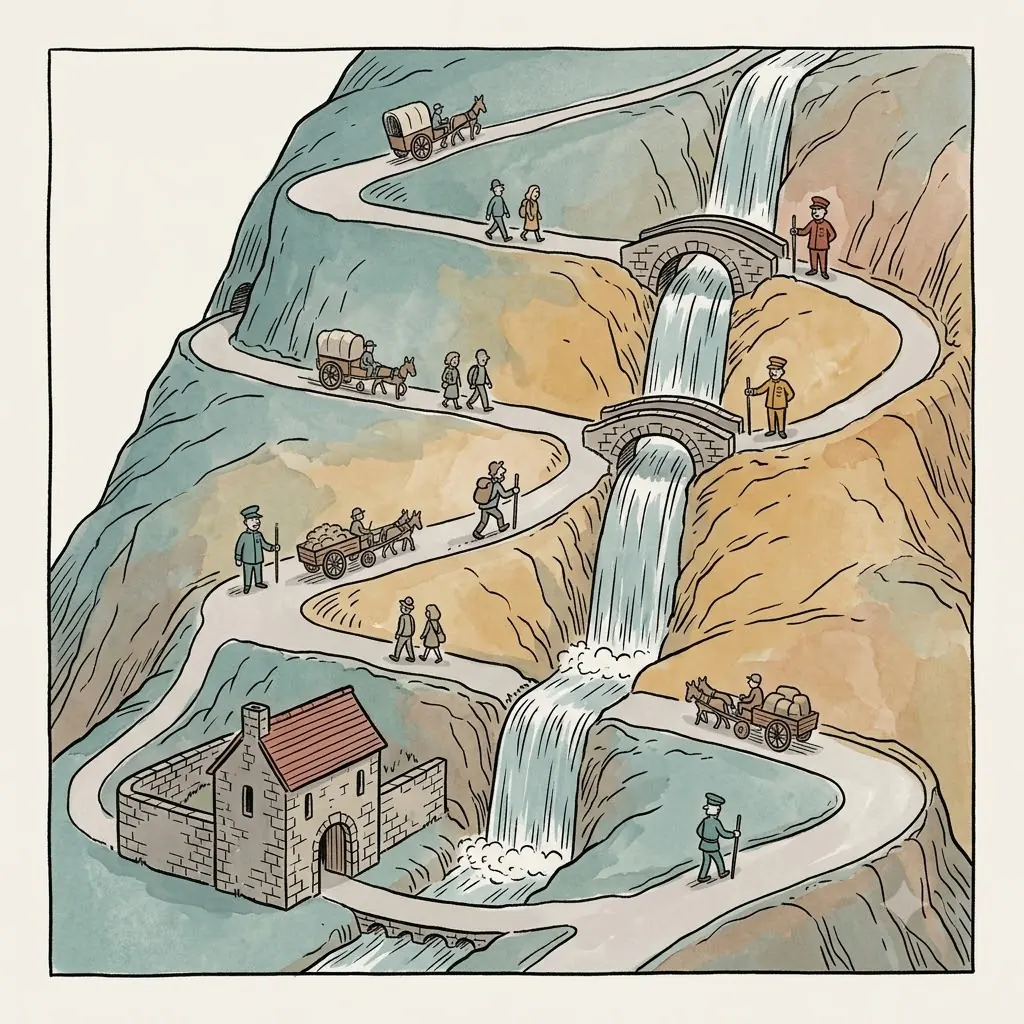
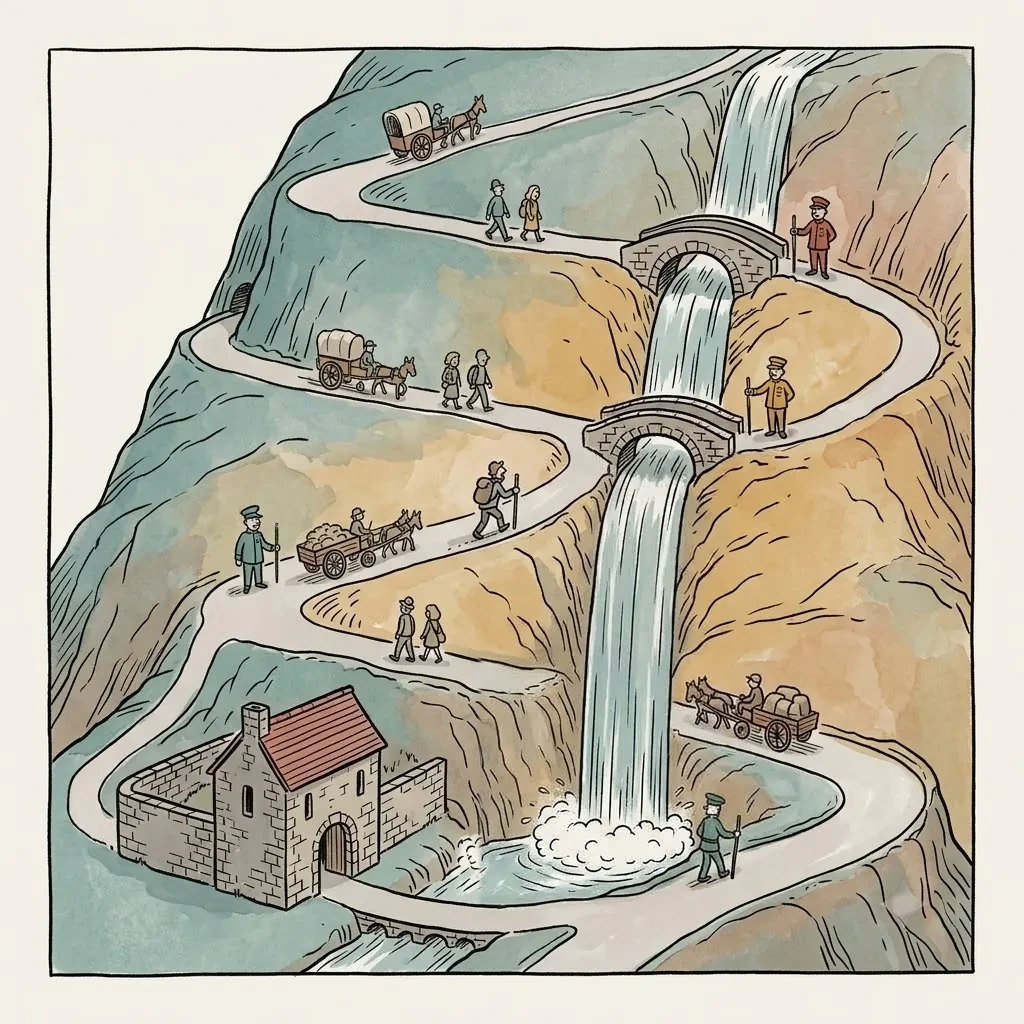
개념 논리 m — s33p01 당신생 산길: 물줄기가 네 번 떨어지던 것(둘째 다리 아래가 가운데 턱에서 한 번 더 꺾여 피루브산 키네이스 한 단계가 둘로 읽힘) → 둘째 다리 아래를 한 번에 떨어지는 긴 폭포로 — 폭포 셋 = 비가역 3단계(4행 「가로막는 폭포가 딱 셋」과 맞음) 제미나이 v1 의 폭포 자리만 옮기고 바위 위 옛 반짝이 흐리게(tools/retouch/s33p01_one_fall.py)
Claude-Session: https://claude.ai/code/session_01WoYBm6rvmofApXiAiUhif2

Changed region(s): [[0.4688, 0.4062, 0.7812, 0.9062], [0.4688, 0.4375, 0.5, 0.5312]]

diff --git a/tools/retouch/s33p01_one_fall.py b/tools/retouch/s33p01_one_fall.py
@@ -1,0 +1,44 @@
+#!/usr/bin/env python3
+"""s33p01 — 개념 논리 m 4: 물줄기가 네 번 떨어지던 것(둘째 다리 아래가 가운데 턱에서 한 번 더 꺾임) → 비가역 3단계대로 **폭포 셋**
+(맨 위 → 첫 다리 · 첫 다리 → 둘째 다리 · 둘째 다리 → 맨 아래 웅덩이 한 번에).
+제미나이 v1 에서 둘째 다리 아래 폭포 자리만(x 480..800 · y 400..920 안, σ2 밝기 차 > 12 → 닫기 3 · 메움 · 넓힘 5 · σ2 섞음) 원본에 옮기고,
+오른쪽 아래 바위 위의 옛 흐린 반짝이 표식(원본부터 있던 것, 중심 ≈ (905,905))은 바위 결의 검은 선을 두고 「둘레보다 밝은」 화소만 둘레 밝기로 낮춘다.
+사용: python3 s33p01_one_fall.py ORIG.png V1.png OUT.png"""
+import sys
+import numpy as np
+from PIL import Image
+from scipy import ndimage as ndi
+op, vp, dst = sys.argv[1], sys.argv[2], sys.argv[3]
+O = np.asarray(Image.open(op).convert('RGB')).astype(np.float64)
+V = np.asarray(Image.open(vp).convert('RGB')).astype(np.float64)
+H, W = O.shape[:2]
+d = ndi.gaussian_filter(np.abs(O - V).mean(axis=2), 2.0)
+b = np.zeros((H, W), bool); b[400:920, 480:800] = True
+m = (d > 12) & b
+m = ndi.binary_closing(m, iterations=3)
+m = ndi.binary_fill_holes(m)
+m = ndi.binary_dilation(m, iterations=5) & b
+w = ndi.gaussian_filter(m.astype(float), 2.0)
+out = O * (1 - w[..., None]) + V * w[..., None]
+print('paste px', int(m.sum()))
+# 옛 반짝이
+X0, X1, Y0, Y1 = 872, 940, 866, 940
+sub = out[Y0:Y1, X0:X1]
+L = sub.mean(axis=2)
+dark = ndi.binary_dilation(L < 110, iterations=1)
+Lm = np.where(dark, np.nan, L)
+pad = np.pad(Lm, 12, mode='reflect')
+from numpy.lib.stride_tricks import sliding_window_view
+win = sliding_window_view(pad, (25, 25))
+bgL = np.nanpercentile(win.reshape(win.shape[0], win.shape[1], -1), 35, axis=2)
+yy, xx = np.mgrid[0:sub.shape[0], 0:sub.shape[1]]
+cx, cy = 905 - X0, 905 - Y0
+disc = np.hypot(xx - cx, yy - cy) <= 30
+bright = (L > bgL + 5) & ~dark & disc
+bright = ndi.binary_dilation(ndi.binary_opening(bright, iterations=1), iterations=1) & ~dark
+f = np.where(bright, bgL / np.maximum(L, 1), 1.0)
+f = ndi.gaussian_filter(f, 1.0)
+out[Y0:Y1, X0:X1] = sub * f[..., None]
+print('old sparkle px', int(bright.sum()))
+Image.fromarray(np.clip(out, 0, 255).astype(np.uint8)).save(dst)
+print('saved', dst)

diff --git a/tools/retouch/README.md b/tools/retouch/README.md
@@ -63,3 +63,4 @@
 | s16p01 | `s16p01_cabinet_spark.py` — 개념 논리 M(창구 세 개: 벽의 안팎이 없던 것)은 제미나이 v1 한 번(보는 방 = 세포 안 · 손님은 창밖 · 문으로 들어와 캐비닛)으로 고치고, 캐비닛 왼쪽 아래 모서리에 겹친 **옛 반짝이 표식**만 손으로: 곧은 선뿐인 캐비닛이라 둘레 면 색(옆판·서랍 앞·받침·바닥)을 재어 평면으로 칠하고 끊긴 선 넷(바깥 왼쪽 x≈897 · 안쪽 x≈906 · 서랍 밑선 y≈910 · 캐비닛 밑선 기울기 0.14)을 이어 그린 뒤 **국소 밝기 차 > 12 인 곳만** 바꿈. |
 | s11p01 | `s11p01_okazaki_planks.py` — 개념 논리 M(R9 · 두 번 실패): 지연가닥 짧은 판자가 띠를 가로질러 침목처럼 → ① 제미나이 **지우기만**(판자·못 · 인부 빈손 · 용접공·불꽃 그대로) 결과에서 원본과 다른 곳만(왼쪽 아래 · σ2 차 > 14 · 닫기 3 · 메움 · 넓힘 5) 옮기고 ② 판자는 손으로 — 원본 위 갈래 긴 판자(중심 (381.6,316.9) · 32.19°)를 cv2.remap 으로 펴서 짧은 판자 스프라이트(곧은 몸 + 끝 32→18px · 폭 0.8 · 뭉툭한 끝 윤곽 3px)를 만들고 아래 갈래 축 (−0.707,0.707)으로 warpAffine(두께 면이 보는 쪽) · 못은 곧게 그림 · 불꽃은 판자 위에 다시 얹음 · 오른쪽 아래 반짝이는 **밝기 문턱(둘레 + 3)** 으로도 잡아 Telea(별 속이 넓고 평평해 국소 대비만으로는 안 잡힘). ⚠ 제미나이에게 안내 칠로 판자를 그리게 하면 뾰족한 끝을 빼고 분기점까지 다시 그렸다 — **지우기는 제미나이, 같은 물건 되풀이는 손** 이 낫다. |
 | s23p02 | `s23p02_salt_paste.py` — 개념 논리 m: 니코틴 문 회색 알갱이(= 자갈 Ca²⁺ 예약) → 흰 소금 결정(Na⁺) · M3 손가락 넷 → 셋 — 제미나이 v1 의 세 곳만(σ2 차 > 12) 옮기고, 소금 곁에 더 그린 **네 꼭지 반짝임 다섯**은 둥근 창 안 「바탕보다 어두운」 화소(굵은 윤곽 곁 제외)를 Telea 로 · 물방울 뒤의 옛 흐린 반짝이는 「바탕보다 밝은」 화소를 바탕색으로(물방울 윤곽 L < 185 + 안 보호). |
+| s33p01 | `s33p01_one_fall.py` — 개념 논리 m 4: 물줄기가 네 번 떨어지던 것 → 비가역 셋대로 폭포 셋(둘째 다리 아래를 한 번에) — 제미나이 v1 의 폭포 자리만(x 480..800 · y 400..920 · σ2 차 > 12) 옮기고, 바위 위 옛 반짝이는 검은 결 선을 두고 「둘레(25px 창 35 백분위)보다 5 넘게 밝은」 화소만 둘레 밝기로 낮춤. |

diff --git a/tools/prompts/s33p01_폭포셋_v1.md b/tools/prompts/s33p01_폭포셋_v1.md
@@ -1,0 +1,6 @@
+# s33p01 — 폭포를 셋으로 · v1
+
+logic_0929 m 4: 물줄기가 **네 번** 떨어진다(맨 위 → 첫 다리 · 첫 다리 → 둘째 다리 · 둘째 다리 → 가운데 웅덩이 · 가운데 웅덩이 → 맨 아래 웅덩이) — 4행은 「가로막는 폭포가 딱 셋」(비가역 3단계: 헥소키네이스 · PFK-1 · 피루브산 키네이스). 아래 두 번(둘째 다리 아래)이 한 단계(피루브산 키네이스 → 우회는 담장 안 건물)를 둘로 쪼갠다.
+→ 둘째 다리 아래를 **한 번에 떨어지는 긴 폭포 하나**로 — 가운데 턱·물보라 없앰.
+
+Edit the attached illustration. Keep everything exactly as it is — the winding road, all the travellers, carts and uniformed toll-keepers, the two stone arch bridges, the walled stone building at the bottom left, the colors and the style — and change only the waterfall BELOW the second stone bridge: right now it falls, splashes onto a ledge halfway down, and then falls a second time. Make it ONE single, long, unbroken waterfall that drops straight from under the second bridge all the way down to the pool at the bottom, with the white splash only at the bottom. Remove the ledge and the splash halfway down; the rock face behind the fall continues there. The roads that come to the waterfall from the left and from the right at that middle height stop at the edge of the falling water. No text.

diff --git a/tools/vision/logic_0929.md b/tools/vision/logic_0929.md
@@ -205,5 +205,5 @@
 | s31p03 | 5 | 빈 네모 양동이(FAD) | 양동이 = NADH 전용 | m | 그림 | |
 | s31p04 | 1·2 | 가득 찬 양동이가 **판자로 막힌 문**(피루브산 문) 앞 | 산소 없음이 막는 건 전자전달(담) | m | 그림 | |
 | s32p02 | 4·5 | 복합체 IV 뒤 받는 이가 둘 | a₃ → O₂ 바로 | m | 그림 | ✔ 대기열 48 과 한 라운드 — 문 밖 사람 지움 · 안쪽 사람이 빈손을 앞쪽(O₂ 풍선) 사람에게 · 4·5행·본문 |
-| s33p01 | 4 | 폭포가 **넷** 번 떨어짐 | 비가역 셋 | m | 그림 | |
+| s33p01 | 4 | 폭포가 **넷** 번 떨어짐 | 비가역 셋 | m | 그림 |✔ 9/29 둘째 다리 아래를 가운데 턱 없이 **한 번에 떨어지는 긴 폭포**로 — 폭포 셋(맨 위 · 두 다리 사이 · 둘째 다리 → 맨 아래) · 제미나이 v1 에서 폭포 자리만 옮김 · 오른쪽 아래 옛 반짝이 흐리게 |
 | s33p02 | 3·7 | 두 활송 모두 방패 · 오각 고리는 공장 밖으로 안 나감 | NADPH 와 리보스-5-P | m | 그림(대기열 33 에 더함) | ✔ 대기열 33 — 왼쪽 활송 방패 · 오른쪽 활송 오각 고리 · 사슬·바닥 오각 · 3·7행 |
